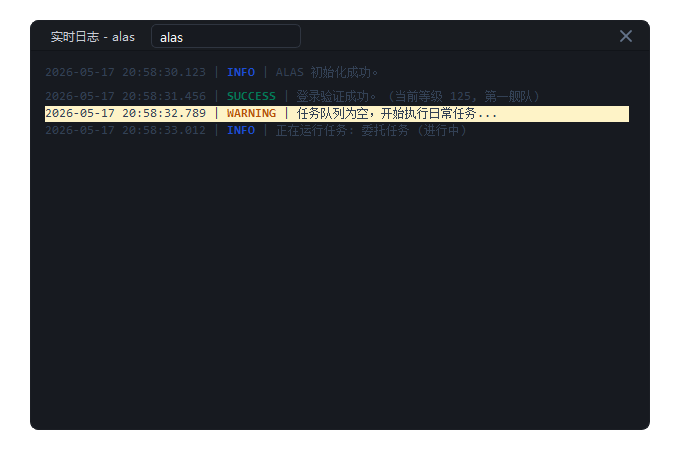
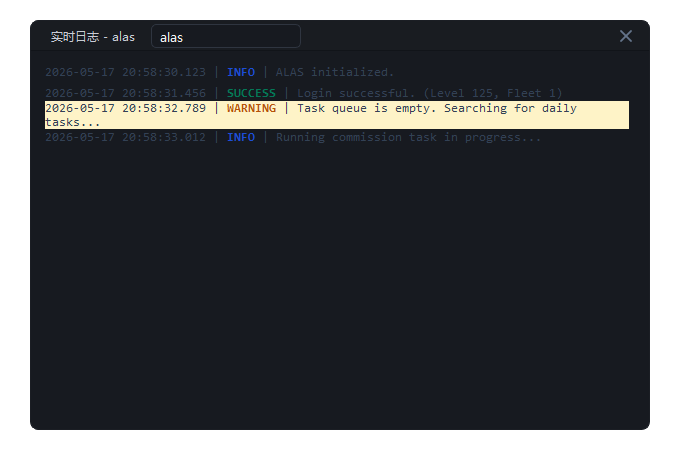
docs: Update log preview screenshots to realistically display 100% English log contents

Changed region(s): [[0.0618, 0.1522, 0.9265, 0.3043]]

diff --git a/capture_all.py b/capture_all.py
@@ -89,10 +89,10 @@ def main():
         dialog = LogWindow(parent=win, config=win.card.config, current_config="alas", configs=["alas", "alas2"])
         dialog.show()
         dialog._on_log_updated(
-            "2026-05-17 20:58:30.123 | INFO | ALAS 初始化成功。\n"
-            "2026-05-17 20:58:31.456 | SUCCESS | 登录验证成功。 (当前等级 125, 第一舰队)\n"
-            "2026-05-17 20:58:32.789 | WARNING | 任务队列为空，开始执行日常任务...\n"
-            "2026-05-17 20:58:33.012 | INFO | 正在运行任务: 委托任务 (进行中)"
+            "2026-05-17 20:58:30.123 | INFO | ALAS initialized.\n"
+            "2026-05-17 20:58:31.456 | SUCCESS | Login successful. (Level 125, Fleet 1)\n"
+            "2026-05-17 20:58:32.789 | WARNING | Task queue is empty. Searching for daily tasks...\n"
+            "2026-05-17 20:58:33.012 | INFO | Running commission task in progress..."
         )
         
         def do_capture():
@@ -189,8 +189,8 @@ def main():
         dialog = LogWindow(parent=win, config=win.card.config, current_config="alas", configs=["alas", "alas2"])
         dialog.show()
         dialog._on_log_updated(
-            "2026-05-17 20:58:30.123 | INFO | ALAS initialized successfully.\n"
-            "2026-05-17 20:58:31.456 | SUCCESS | Login verification successful. (Level 125, Fleet 1)\n"
+            "2026-05-17 20:58:30.123 | INFO | ALAS initialized.\n"
+            "2026-05-17 20:58:31.456 | SUCCESS | Login successful. (Level 125, Fleet 1)\n"
             "2026-05-17 20:58:32.789 | WARNING | Task queue is empty. Searching for daily tasks...\n"
             "2026-05-17 20:58:33.012 | INFO | Running commission task in progress..."
         )
